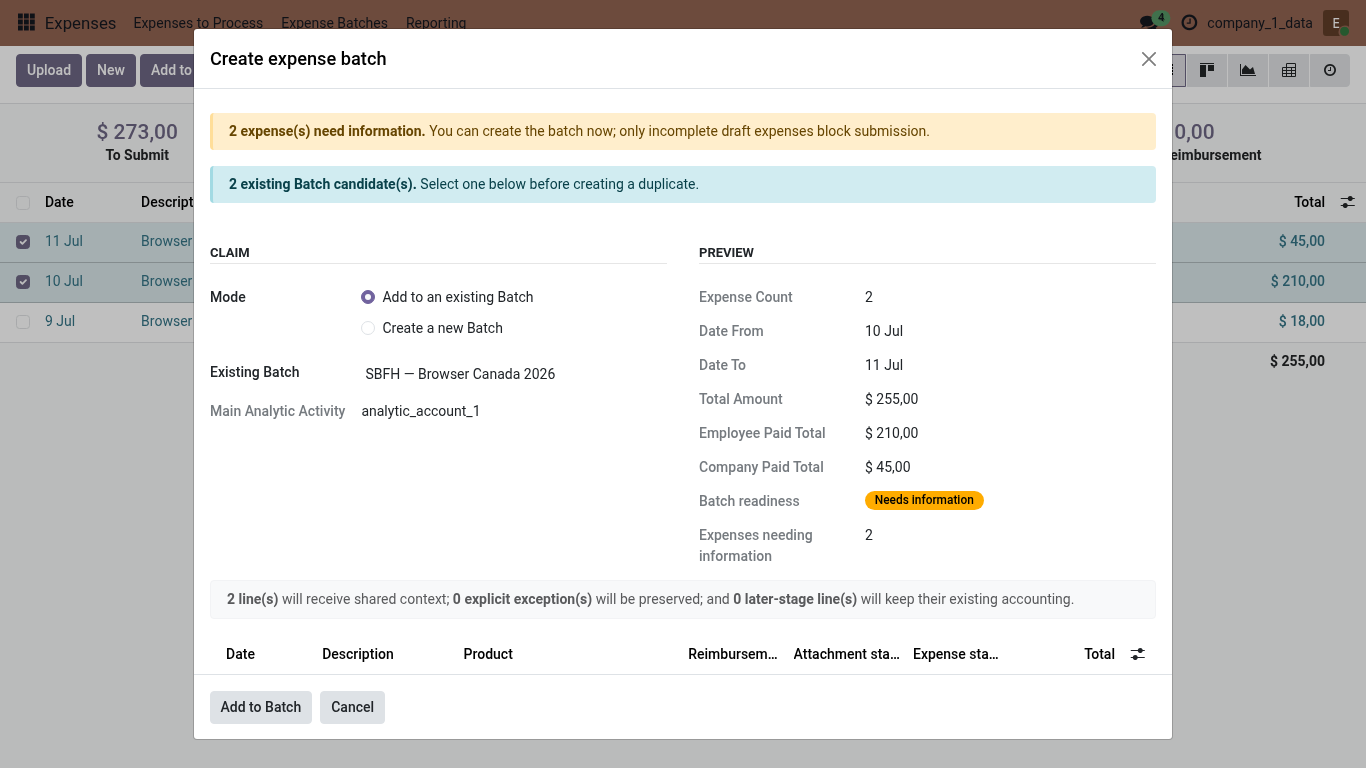
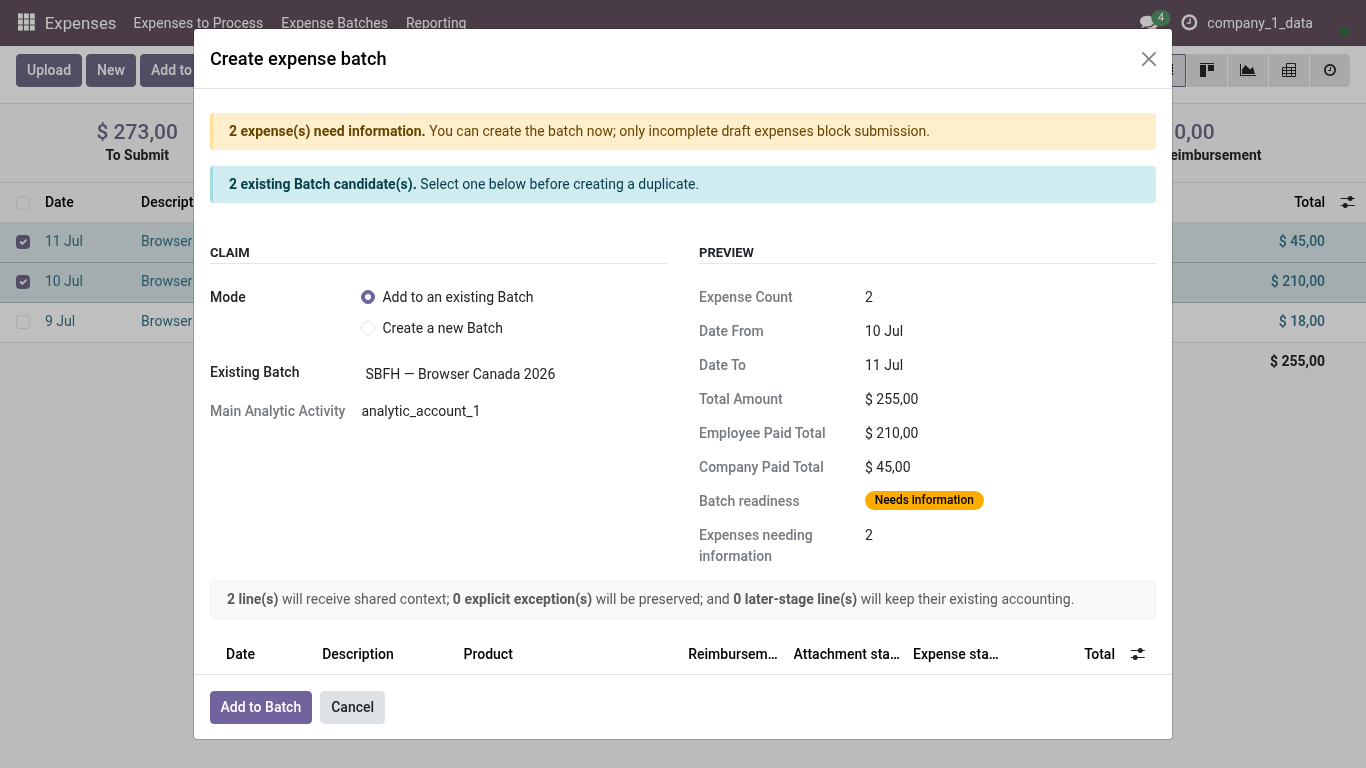
feat(docs): regenerate the pilot page, test the Help entry, repoint the shim

Changed region(s): [[0.0, 0.0, 1.0, 0.0625], [0.1537, 0.875, 0.246, 0.9688]]

diff --git a/custom-addons/usl_docs/static/tests/help_menu.test.js b/custom-addons/usl_docs/static/tests/help_menu.test.js
@@ -1,0 +1,48 @@
+import { beforeEach, describe, expect, test } from "@odoo/hoot";
+import { queryAllAttributes, queryAllTexts } from "@odoo/hoot-dom";
+import { clearRegistry, contains, mockService, mountWithCleanup, serverState } from "@web/../tests/web_test_helpers";
+
+import { registry } from "@web/core/registry";
+import { UserMenu } from "@web/webclient/user_menu/user_menu";
+
+import "@usl_docs/js/help_menu";
+
+const userMenuRegistry = registry.category("user_menuitems");
+
+describe.current.tags("desktop");
+
+let helpItem;
+
+beforeEach(() => {
+    serverState.partnerName = "Reader";
+    helpItem = userMenuRegistry.get("support");
+    clearRegistry(userMenuRegistry);
+    userMenuRegistry.add("support", helpItem);
+});
+
+async function helpHref(currentController) {
+    mockService("action", { currentController });
+    await mountWithCleanup(UserMenu);
+    await contains(".o_user_menu button").click();
+    const items = queryAllTexts(".o-dropdown--menu .dropdown-item");
+    expect(items).toEqual(["Help"]);
+    return queryAllAttributes(".o-dropdown--menu .dropdown-item", "href")[0];
+}
+
+test("Help opens the guide on the current screen", async () => {
+    const href = await helpHref({
+        action: { id: 42, path: "expenses", xml_id: "hr_expense.action_x", res_model: "hr.expense" },
+        props: { resModel: "hr.expense" },
+    });
+    expect(href).toBe("/usl/user-docs?action=expenses&model=hr.expense");
+});
+
+test("Help falls back to the action's XML id, then its id", async () => {
+    expect(await helpHref({ action: { id: 42, xml_id: "hr_expense.action_x" }, props: {} })).toBe(
+        "/usl/user-docs?action=hr_expense.action_x"
+    );
+});
+
+test("Help opens the guide's home without a current action", async () => {
+    expect(await helpHref(null)).toBe("/usl/user-docs");
+});

diff --git a/custom-addons/rebuild_account_migration/controllers/user_docs.py b/custom-addons/rebuild_account_migration/controllers/user_docs.py
@@ -2,13 +2,13 @@
 
 The route is unchanged. Restore-stage tests and any script written against the
 old module path keep working through these names; new code imports
-``odoo.addons.usl_docs.controllers.user_docs`` directly.
+``odoo.addons.usl_docs.tools.guide`` directly.
 """
 
-from odoo.addons.usl_docs.controllers.user_docs import (  # noqa: F401
+from odoo.addons.usl_docs.tools.guide import (  # noqa: F401
     DOCS_ENV_VAR,
     DOCS_ROUTE,
-    _docs_root,
-    _safe_doc_path,
+    docs_root as _docs_root,
     render_markdown,
+    safe_doc_path as _safe_doc_path,
 )

diff --git a/custom-addons/usl_docs/__manifest__.py b/custom-addons/usl_docs/__manifest__.py
@@ -23,6 +23,9 @@
         "web.assets_tests": [
             "usl_docs/static/tests/journey_runner.js",
         ],
+        "web.assets_unit_tests": [
+            "usl_docs/static/tests/help_menu.test.js",
+        ],
     },
     "auto_install": True,
     "installable": True,

diff --git a/docs/users/how-to/group-expenses-into-a-batch.md b/docs/users/how-to/group-expenses-into-a-batch.md
@@ -14,7 +14,7 @@ tour: usl_expense_batch_create_or_select
 source:
   - custom-addons/usl_expense_batch/tests/test_expense_batch_journeys.py
 screenshot_01-work_list_png: 268d0b2e5c18338ed4f12db6819df66107c9d86a2913d92ef14303b6b8bdee40
-screenshot_02-preview_png: 0c16bec459c061412f94fe846b510d2b23cf459115e5c2a6b4defac1d6adfa3a
+screenshot_02-preview_png: 478c772c3c0e48a327087eee3c682daf9f2f8935c2bc5d182241462a03f160f1
 screenshot_03-grouped_png: 9e143e18e2cb0edff169db4db121321d1e6a3bca5c2673a6579f03e48921731b
 generated: true
 ---
